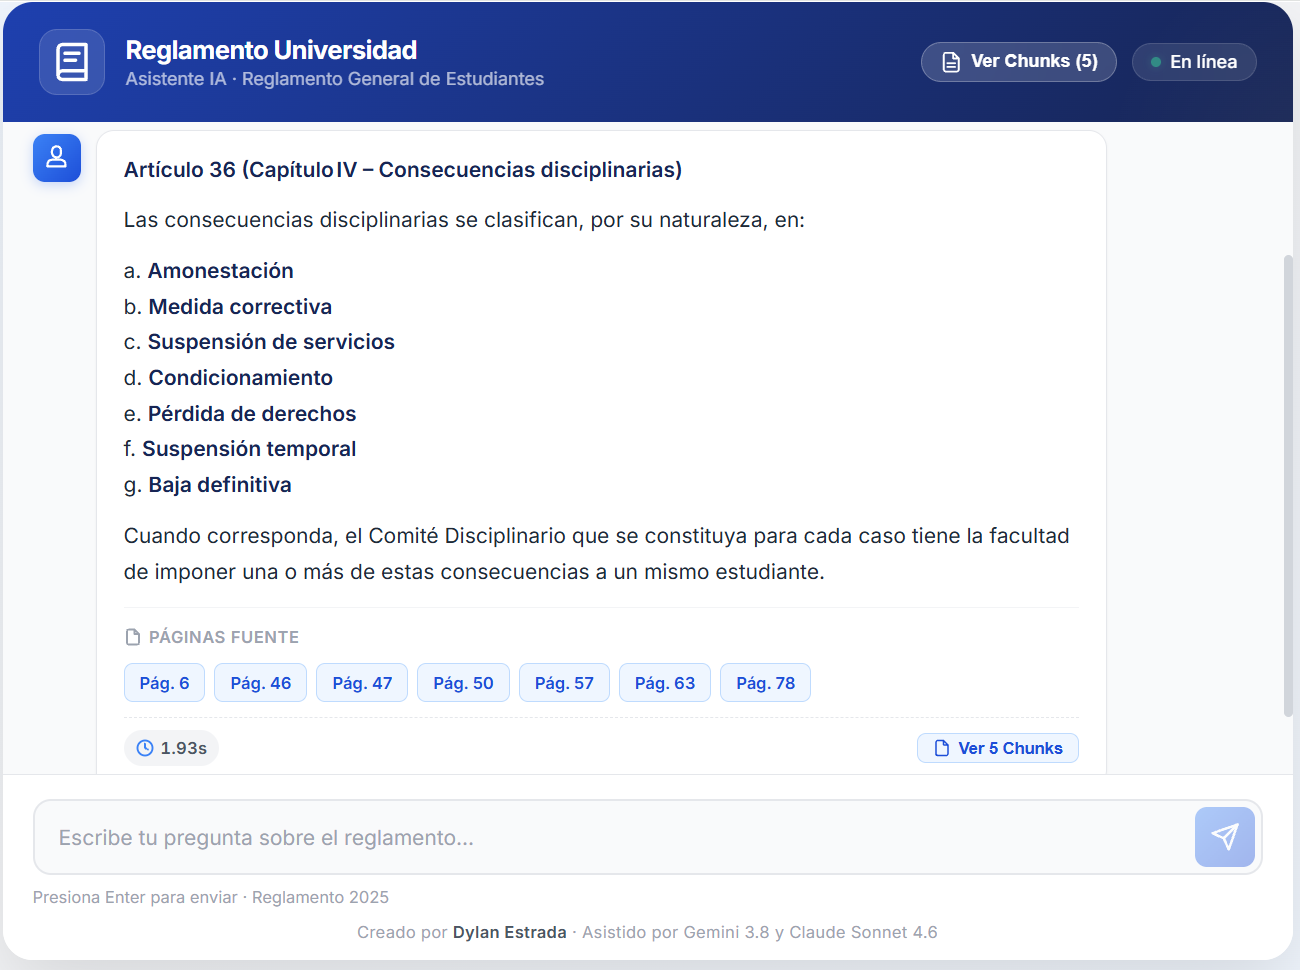
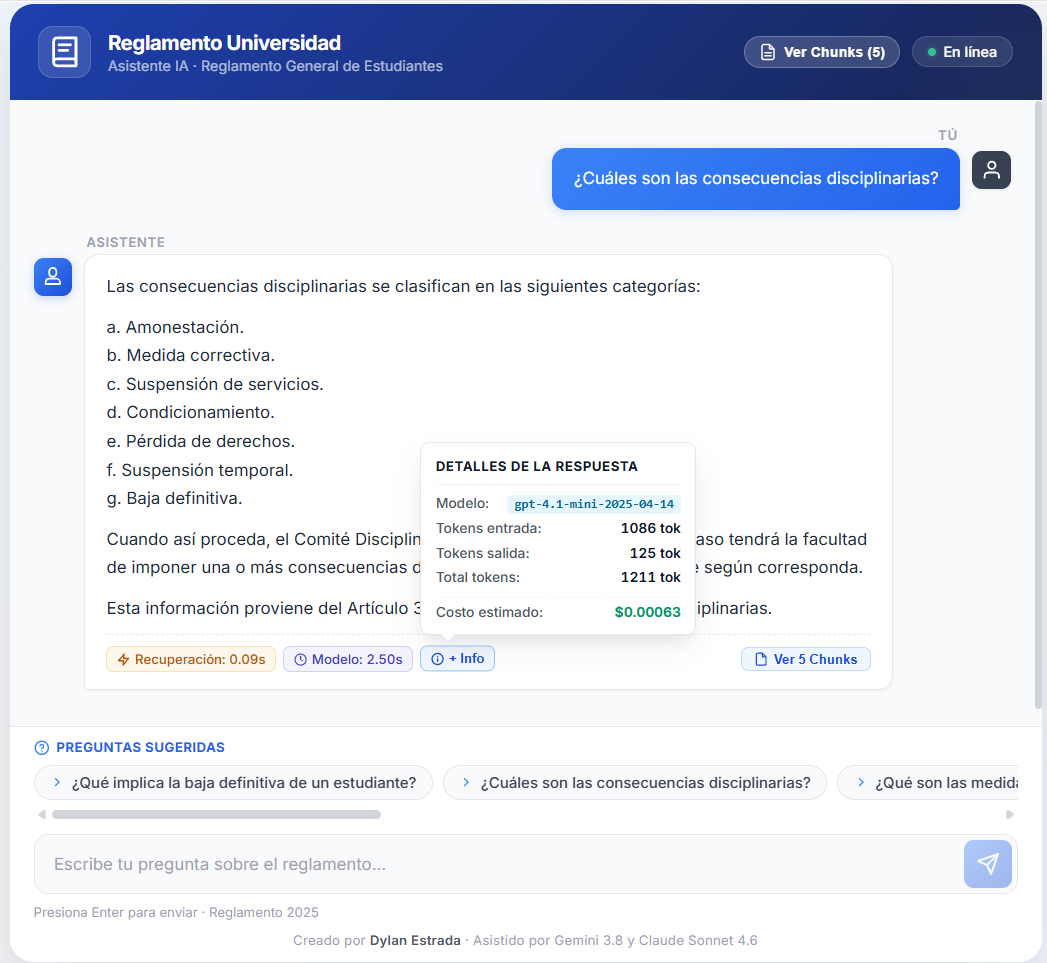
doc(readme):update backend url and preview image

diff --git a/README.md b/README.md
@@ -3,10 +3,9 @@
 A production-ready full-stack Retrieval-Augmented Generation (RAG) assistant for university regulations (**Reglamento General de Estudiantes**), featuring sub-second hybrid retrieval, OpenAI inference, and live execution telemetry.
 
 [![Live Demo](https://img.shields.io/badge/Live_Demo-Vercel-black?style=for-the-badge&logo=vercel)](https://full-stack-rag-app-beta.vercel.app/)
-[![Backend API](https://img.shields.io/badge/API-Azure_Container_Apps-0078D4?style=for-the-badge&logo=microsoftazure&logoColor=white)](https://rag-backend.happypond-8a46921f.spaincentral.azurecontainerapps.io/health)
+[![Backend](https://img.shields.io/badge/Backend-FastAPI-009688?style=for-the-badge&logo=fastapi&logoColor=white)](https://fastapi.tiangolo.com/)
 
-* 🌐 **Frontend (Vercel):** [full-stack-rag-app-beta.vercel.app](https://full-stack-rag-app-beta.vercel.app/)
-* ⚙ **Backend API (Azure Container Apps):** [rag-backend.happypond-8a46921f.spaincentral.azurecontainerapps.io](https://rag-backend.happypond-8a46921f.spaincentral.azurecontainerapps.io/health)
+🌐 **Live Application:** [https://full-stack-rag-app-beta.vercel.app/](https://full-stack-rag-app-beta.vercel.app/)
 
 ---
 
@@ -52,7 +51,7 @@ A production-ready full-stack Retrieval-Augmented Generation (RAG) assistant for
 Submit a question (3–500 characters) and receive an answer with telemetry and source chunks:
 
 ```bash
-curl -X POST https://rag-backend.happypond-8a46921f.spaincentral.azurecontainerapps.io/ask \
+curl -X POST http://localhost:8000/ask \
   -H "Content-Type: application/json" \
   -d '{"question": "¿Cuáles son las faltas disciplinarias?"}'
 ```
@@ -127,9 +126,14 @@ rag-app/
 └── README.md
 ```
 
+## 📸 UI Preview
+
+![Application UI](./assets/rag-app.png)
+
 ---
 
 ## 👨💻 Author
 
 **Dylan Estrada** · *Asistido por Gemini 3.8 y Claude Sonnet 4.6*  
 💼 [LinkedIn](https://www.linkedin.com/in/dylan-estrada-606691216/) · 🐙 [GitHub](https://github.com/DylanEstrada9838)
+
